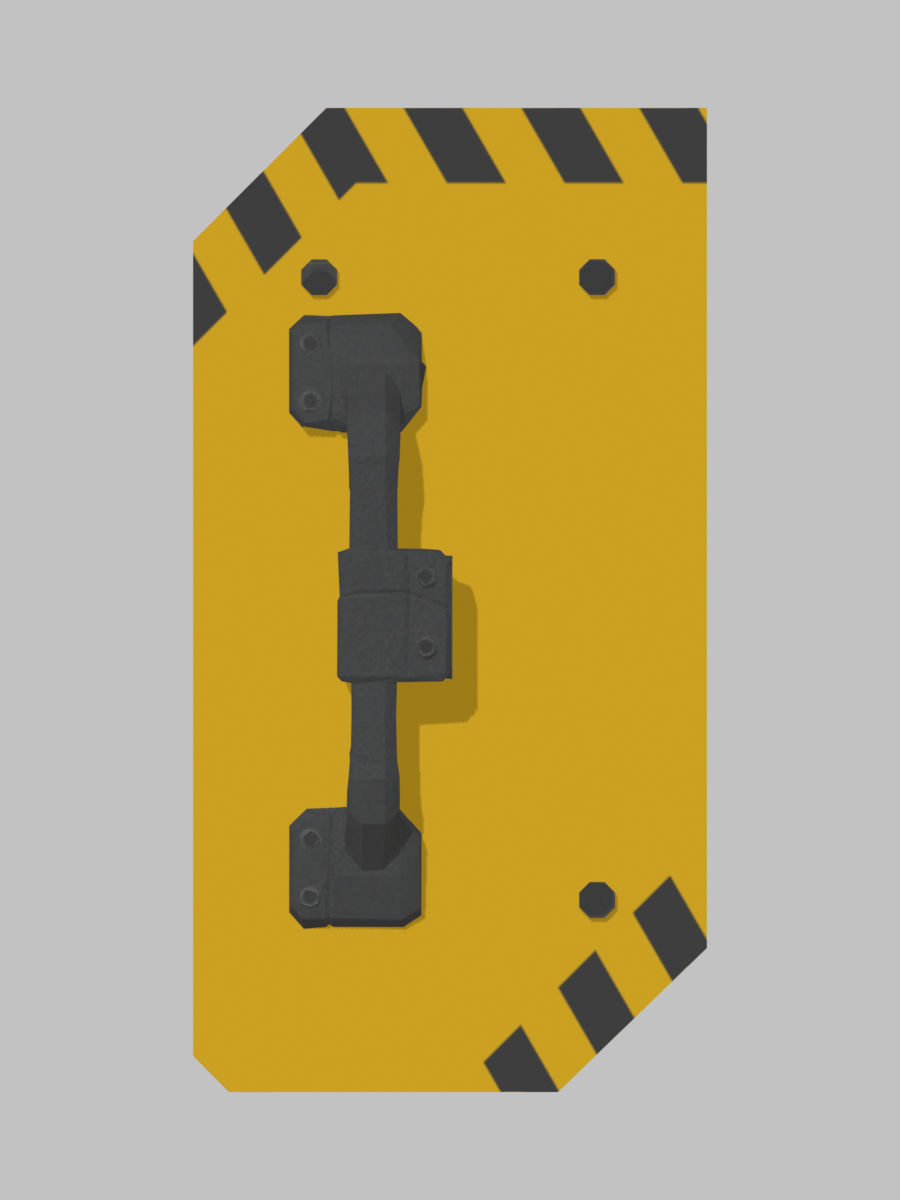
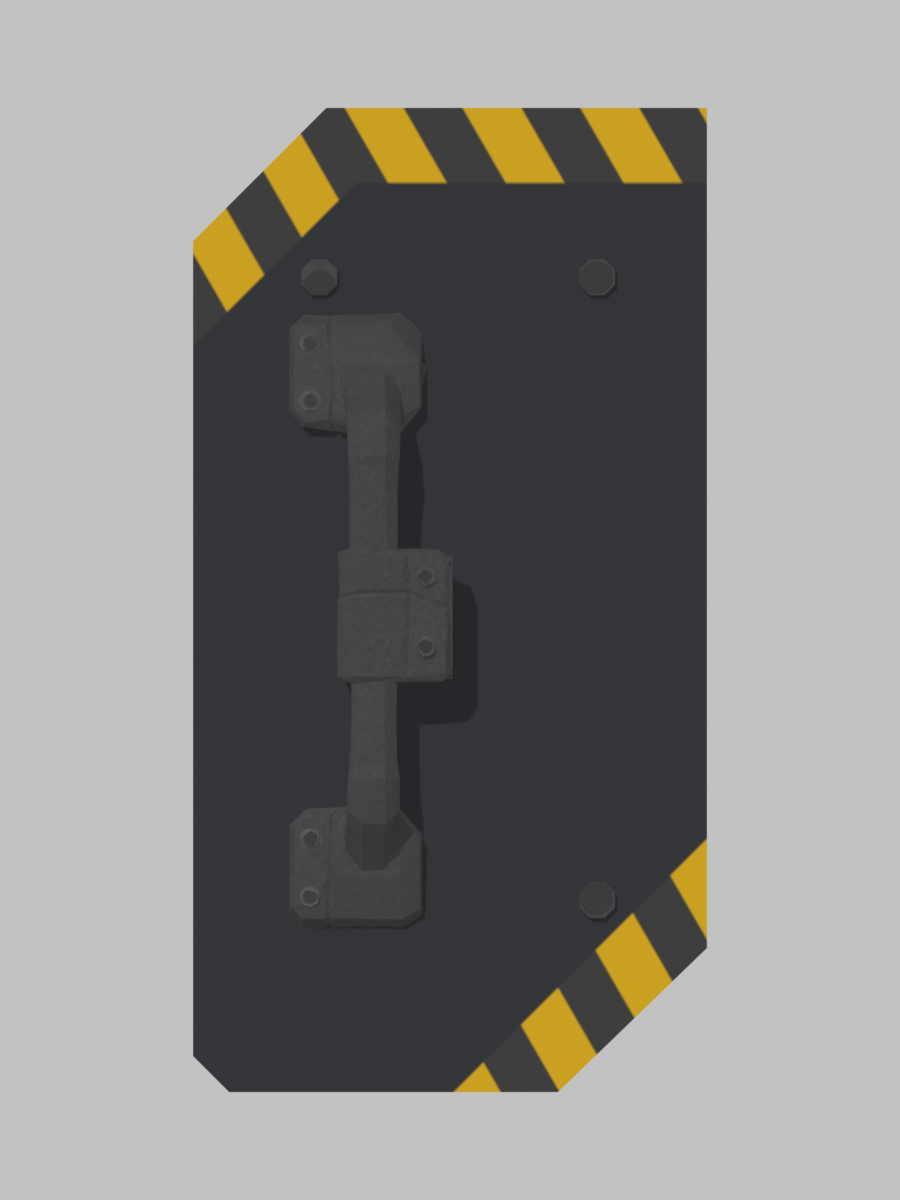
task-226-01-shield-charcoal-textures: shield_v2.py builds variant A (charcoal plate #33363B, yellow-only emblem); textures, previews and debris copies regenerated

diff --git a/Tools/art/blender/shield_v2.py b/Tools/art/blender/shield_v2.py
@@ -316,14 +316,28 @@ d_edge = np.minimum(np.minimum(abs(u_), abs(u_ - 0.5)), abs(u_ - 1.0)) * STRIPE_
 a_dark = np.clip(0.5 + np.where(u_ < 0.5, 1.0, -1.0) * d_edge / PX_CM, 0.0, 1.0)
 sd_zone = np.maximum(np.maximum(Z_ - 75.75, (Y_ + Z_ - 83.56) / math.sqrt(2)), (-0.3 - (Y_ + Z_)) / math.sqrt(2))
 a_zone = np.where(is_face_fb, np.clip(0.5 + sd_zone / PX_CM, 0.0, 1.0), np.where(is_top | is_cut, 1.0, 0.0))
-alpha = (a_zone * a_dark)[..., None].astype(np.float32)
+# task-226-01: variant A. The plate is charcoal #33363B; the yellow and black stripe zone (bands along the top and the corner cuts, a_zone) keeps
+# the hazard yellow and black stripes. Same formula as shield_colour_test.py variant A: plate*(1-a_zone) + a_zone*(yellow*(1-a_dark) + black*a_dark).
+PLATE_BASE = np.array([0x33, 0x36, 0x3B], dtype=np.float32) / 255.0
+az_ = a_zone[..., None].astype(np.float32); ad_ = a_dark[..., None].astype(np.float32)
 px_new = px.copy()
-slab_yellow = np.broadcast_to(np.asarray(YELLOW, dtype=np.float32), px.shape)
-px_new[slab] = (slab_yellow * (1 - alpha) + np.asarray(BLACK, dtype=np.float32) * alpha)[slab]   # plate, back plate under the removed bracket, groove, sides: flat yellow plus stripes
+slab_col = PLATE_BASE * (1 - az_) + az_ * np.asarray(YELLOW, dtype=np.float32) * (1 - ad_) + az_ * ad_ * np.asarray(BLACK, dtype=np.float32)
+px_new[slab] = slab_col[slab]
 # grip and bolt texels that picked up the plate yellow in the bake (rays grazing the plate) go back to the gunmetal / bolt colour
-yel_like = cov & ~slab & ((px_new[..., 0] - px_new[..., 2]) > 0.25)
+yel_like = cov & ~slab & ((px_new[..., 0] - px_new[..., 2]) > 0.12)
 px_new[yel_like] = GUNMETAL
-px = px_new
+def dilate(img, known, iters=12):
+    """uncovered texels next to a covered one take the mean of the covered neighbours (no stale baked yellow on island borders)"""
+    img = img.copy(); kn = known.copy()
+    for _ in range(iters):
+        acc = np.zeros_like(img); cnt = np.zeros(kn.shape, np.float32)
+        for dy, dx in ((1, 0), (-1, 0), (0, 1), (0, -1), (1, 1), (1, -1), (-1, 1), (-1, -1)):
+            k2 = np.roll(kn, (dy, dx), (0, 1)); i2 = np.roll(img, (dy, dx), (0, 1))
+            acc += i2 * k2[..., None]; cnt += k2
+        upd = ~kn & (cnt > 0)
+        img[upd] = acc[upd] / cnt[upd][:, None]; kn = kn | upd
+    return img
+px = dilate(px_new, cov)
 img.pixels = np.concatenate([px, np.ones((H, W, 1), dtype=np.float32)], axis=-1).reshape(-1).tolist()
 img.filepath_raw = TEX_PATH; img.file_format = "PNG"; img.save()
 img.pack() if False else None
@@ -410,7 +424,15 @@ sl = (slice(ey0, ey0 + eh_px), slice(ex0, ex0 + ew_px))
 ea = emb_a[..., 0]
 layer[sl][..., :3] = emb_rgb * ea[..., None] + layer[sl][..., :3] * (1 - ea[..., None])
 layer[..., 3] = plate_a                                            # emblem lies fully inside the plate
-save_rgba(EMB_TEX, layer.astype(np.float32), "T_ChaserShield_Emblem")
+# task-226-01: yellow parts only (KV and facets) on transparent: no rounded plate, no charcoal rock (same extraction as shield_colour_test.py)
+em_ = layer.astype(np.float32)
+rb_ = em_[..., 0] - em_[..., 2]
+solid_ = (rb_ > 0.9) & (em_[..., 3] > 0.99)
+EY_ = np.median(em_[..., :3][solid_], axis=0); ry_ = float(np.median(rb_[solid_]))
+ea_ = np.clip(rb_ / ry_, 0, 1) * em_[..., 3]
+ea_ = np.where(ea_ < 0.04, 0.0, ea_)
+em_out = np.zeros_like(em_); em_out[..., :3] = EY_; em_out[..., 3] = ea_
+save_rgba(EMB_TEX, em_out, "T_ChaserShield_Emblem")
 print("emblem texture", N, "emblem px", ew_px, eh_px)
 
 # 3) decal quad: parallel to the front plate, DECAL_OFF in front, centred on y = 0 and z = DECAL_Z, planar UV 0..1, last slot
@@ -521,12 +543,12 @@ report = {
     "height_to_width_ratio": round(ratio, 3), "pivot": "bottom-centre", "front_axis": "+X",
     "bbox_min": [round(c, 3) for c in lo], "bbox_max": [round(c, 3) for c in hi],
     "materials": [m.name for m in mesh.materials], "textures": ["T_ChaserShield_BaseColor.png", "T_ChaserShield_Emblem.png"], "texture_px": [TEX_PX, TEX_PX],
-    "texture_note": "diffuse colour baked from the Meshy mesh (selected to active); plate faces repainted flat yellow, stripes painted by one function (60 degree lines, period 8.5 cm) over the front and back top bands, corner bands and the whole top face",
+    "texture_note": "diffuse colour baked from the Meshy mesh (selected to active); plate faces repainted charcoal #33363B (task-226-01, variant A), stripes painted by one function (60 degree lines, period 8.5 cm) over the front and back top bands, corner bands and the whole top face",
     "colours_srgb": {"yellow": [round(float(c), 3) for c in YELLOW], "black": [round(float(c), 3) for c in BLACK], "gunmetal": [round(float(c), 3) for c in GUNMETAL]},
     "uv_layers": [u.name for u in mesh.uv_layers], "uv_checks": {"UVMap": chk_uv, "LightMap": chk_lm, "decal": chk_decal},
     "decal": {"material": "M_ChaserShield_Emblem (last slot, alpha blended / Masked in Unreal)", "texture": "T_ChaserShield_Emblem.png", "texture_px": [EMB_TEX_PX, EMB_TEX_PX],
               "size_cm": {"y_width": DECAL_W, "z_height": DECAL_H}, "corner_radius_cm": DECAL_R, "offset_in_front_of_plate_cm": DECAL_OFF, "emblem_height_fraction": EMB_FILL,
-              "plate_colour_srgb_hex": "#1A1F25", "centre_cm_from_pivot": [round(X_FRONT + DECAL_OFF + SHIFT.x, 3), 0.0, DECAL_Z], "front_face_x_cm_from_pivot": round(X_FRONT + SHIFT.x, 3),
+              "plate_colour_srgb_hex": "none (yellow parts only on transparent, task-226-01)", "centre_cm_from_pivot": [round(X_FRONT + DECAL_OFF + SHIFT.x, 3), 0.0, DECAL_Z], "front_face_x_cm_from_pivot": round(X_FRONT + SHIFT.x, 3),
               "cutout_png": "Art/Source/kessler-voss-logo/20261017-kessler-voss-emblem-4-cutout.png", "lightmap_note": "body LightMap scaled by 0.95 to free a strip for the decal"},
     "grip_offset_cm": grip_offset,
     "grip_offset_note": "centre of the bounding box of the middle grip block, from the pivot, Unreal axes (x, -y, z) in cm; front is +X so x is negative (behind the plate)",
